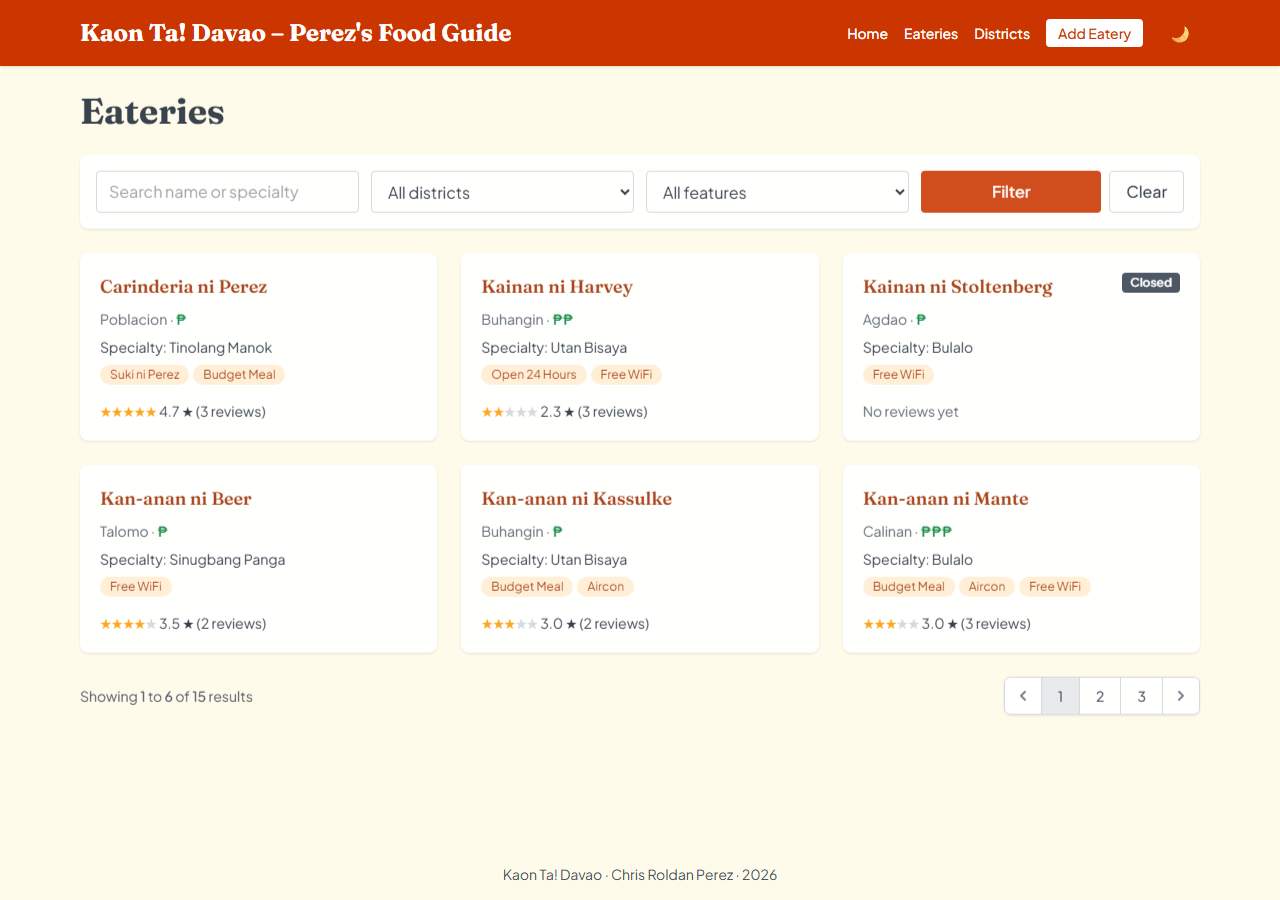
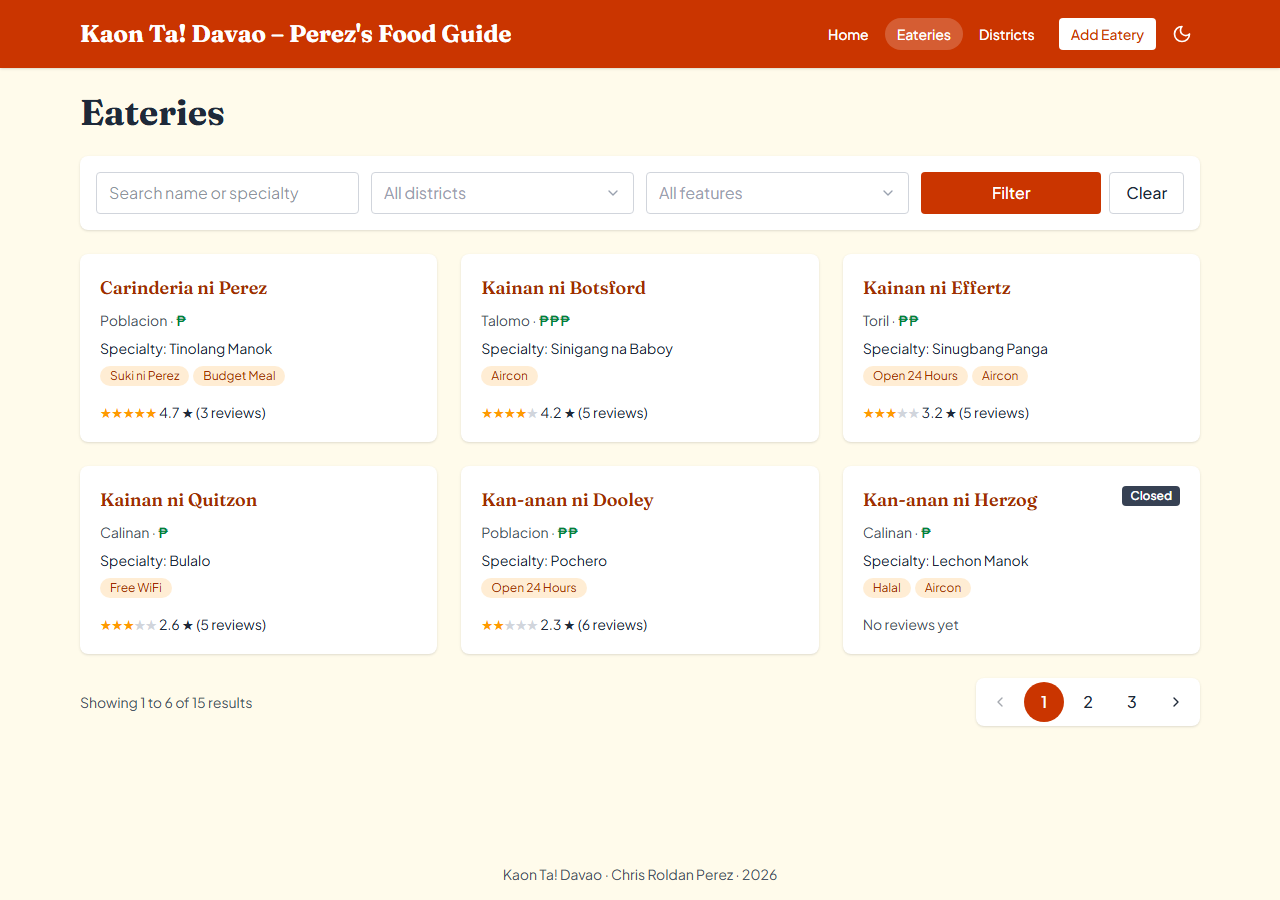
Update README extras and screenshots

diff --git a/README.md b/README.md
@@ -8,7 +8,8 @@ CS Elective 2 Full-Stack Development (Laravel) · Ateneo de Davao University
 A Laravel 12 + SQLite app where the City Tourism Office can list carinderias and eateries by district, show each eatery's business permit, dishes and features, and collect reviews from residents. There is no login. Every page is public, and the review form has a Reviewer select instead.
 
 Extras:
-- A **dark/light mode** toggle in the header (the 🌙 / ☀ button). The choice is saved in the browser's localStorage.
+- A **dark/light mode** toggle in the header (the moon / sun button). The choice is saved in the browser's localStorage (`resources/js/theme.js`).
+- **Custom dropdowns** replace the browser's default select menus (`resources/js/dropdown.js`). The real `<select>` is kept hidden inside the form, so the submitted values, `old()` and `@selected` work the same.
 - **Google Fonts**: Fraunces for headings and Plus Jakarta Sans for body text.
 - Small **hover effects and fade-in animations**, written as Tailwind classes. They turn off automatically if the computer is set to reduce motion.
 
